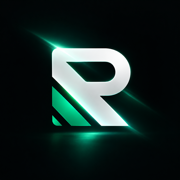
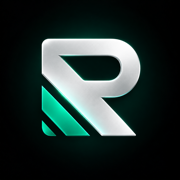
marca nova, etiquetas do multiatendimento e o par do nome na barra
Logo: o Logo-Rezult-atualizado entra em favicon.png (aba, barra superior,
componente Logo, fundo decorativo), favicon.ico, apple-touch-icon e
og-rezult, cada um no tamanho que já tinha. O .ico foi montado à mão, com
três PNGs embutidos (16/32/48): o macOS não escreve esse formato e é o que
todo navegador atual lê. O ?v= subiu de 4 para 5 nos 9 pontos, que é o que o
comentário do Logo.tsx manda fazer ao trocar a arte.

Barra superior: "Rezult" em 18px e "CRM" em 16px. Cresce só o <b>; o bloco
segue no tamanho do "CRM", senão a linha de base das duas palavras se mexe
junto e o conjunto desce em relação ao logo.

Multiatendimento, no card da conversa:

- A etiqueta "1º contato" saiu (dono). Ela dividia a linha com o
  departamento em quase todo card, e a que importa para distribuir
  atendimento ficava em segundo lugar. O estado continua no chip "Não
  lidas" da fila.
- As etiquetas que ficaram passaram a usar o TagPill, que é a etiqueta do
  sistema (10px, raio 50) e a mesma dos cards de /pipeline e /leads. Aqui
  elas eram desenhadas à mão com 12px e raio 6 -- a divergência que aquele
  componente foi criado para encerrar.

Chips da fila (Todos, Não lidas, Aguardando, Finalizadas): o aceso passou a
ser PREENCHIDO, e os quatro na mesma cor. Cada um tinha a sua borda colorida
(cinza, âmbar, azul, verde) e o fundo nunca mudava: quatro cores para dizer
a mesma coisa, variando com o chip em vez de variar com o estado. Sai de
[…]

Changed region(s): [[0.1667, 0.1667, 0.8056, 0.8611], [0.4722, 0.4444, 0.6111, 0.4722]]

diff --git a/src/pages/MultiatendimentoPage.tsx b/src/pages/MultiatendimentoPage.tsx
@@ -62,7 +62,7 @@ import {
   SelectValue,
 } from "@/components/ui/select";
 import { Input } from "@/components/ui/input";
-import { tintaSobre, tintaDeChip } from "@/lib/contraste";
+import { tintaSobre } from "@/lib/contraste";
 import { ACT_META } from "@/lib/atividades";
 
 /* ── helpers ──────────────────────────────────────────────────────────── */
@@ -411,9 +411,26 @@ function Section({ title, children, defaultOpen = false, action, bordaNoTopo = f
  * número, mesmo aceso. Não é fila de trabalho, é arquivo -- e o espaço que ele
  * economiza é justamente o que os outros três usam para escrever o nome.
  */
-function FilterChip({ Icon, count, isActive, onClick, label, color, colorBg, borderColor, iconOnly }: { Icon: LucideIcon; count: number | null; isActive: boolean; onClick: () => void; label?: string; color: string; colorBg: string; borderColor: string; iconOnly?: boolean }) {
+function FilterChip({ Icon, count, isActive, onClick, label, color, colorBg, iconOnly }: { Icon: LucideIcon; count: number | null; isActive: boolean; onClick: () => void; label?: string; color: string; colorBg: string; iconOnly?: boolean }) {
   const [hovered, setHovered] = useState(false);
-  const border = isActive ? `1px solid ${borderColor}` : "1px solid var(--border-default)";
+  /*
+   * O chip aceso é PREENCHIDO, e os quatro acendem da mesma cor (dono,
+   * 08/10/2026).
+   *
+   * Antes cada um tinha a sua borda colorida -- cinza em Todos, âmbar em Não
+   * lidas, azul em Aguardando, verde em Finalizadas -- e o fundo nunca mudava.
+   * Quatro cores para dizer a mesma coisa ("é esta a caixa aberta"), e a cor
+   * variava com o chip em vez de variar com o estado: a única informação que a
+   * fileira precisa passar é QUAL está aceso.
+   *
+   * Sai de `--surface-accent`, que é a superfície de ação do sistema, e por
+   * isso atende o pedido sem nenhum `if` de tema: no claro ela é o charcoal
+   * #1D1D1D, no escuro continua o menta. A tinta vem de `--text-on-accent`,
+   * que acompanha (branco no claro, verde-escuro no escuro).
+   */
+  const fundo = isActive ? "var(--surface-accent)" : "var(--surface-card)";
+  const tinta = isActive ? "var(--text-on-accent)" : "var(--text-heading)";
+  const border = `1px solid ${isActive ? "var(--surface-accent)" : "var(--border-default)"}`;
   const mostrarRotulo = !iconOnly && !!label;
   return (
     /*
@@ -458,7 +475,7 @@ function FilterChip({ Icon, count, isActive, onClick, label, color, colorBg, bor
           display: "flex", alignItems: "center", gap: 4,
           justifyContent: iconOnly ? "flex-start" : "space-between",
           width: iconOnly ? undefined : "100%",
-          background: "var(--surface-card)", border, borderRadius: 6,
+          background: fundo, border, borderRadius: 6,
           padding: iconOnly ? "4px 6px 4px 4px" : "4px 6px",
           fontSize: 11, cursor: "pointer", minWidth: 0,
         }}
@@ -471,11 +488,11 @@ function FilterChip({ Icon, count, isActive, onClick, label, color, colorBg, bor
           </span>
         )}
         {mostrarRotulo && (
-          <span style={{ color: "var(--text-heading)", fontWeight: isActive ? 600 : 500, minWidth: 0, overflow: "hidden", textOverflow: "ellipsis", whiteSpace: "nowrap" }}>
+          <span style={{ color: tinta, fontWeight: isActive ? 600 : 500, minWidth: 0, overflow: "hidden", textOverflow: "ellipsis", whiteSpace: "nowrap" }}>
             {label}
           </span>
         )}
-        {count !== null && <span style={{ color: "var(--text-heading)", fontWeight: 300, flexShrink: 0 }}>{count}</span>}
+        {count !== null && <span style={{ color: tinta, fontWeight: 300, flexShrink: 0 }}>{count}</span>}
       </button>
     </div>
   );
@@ -4158,10 +4175,10 @@ export default function MultiatendimentoPage() {
       : visibleConvList;
 
   const filters = [
-    { id: "",        icon: Inbox,         label: "Todos",       count: convsDoDepartamento.filter(c => !convStates[c.id]?.finished).length,                                                                                                        color: "var(--text-heading)", colorBg: "var(--neutral-50)", borderColor: "var(--border-strong)" },
-    { id: "unread",  icon: Clock,         label: "Não lidas",   count: convsDoDepartamento.filter(c => !convStates[c.id]?.read && !convStates[c.id]?.finished && isConvInstanceConnected(c)).length,       color: "var(--warning-fg)", colorBg: "var(--warning-bg)", borderColor: "rgba(246, 176, 54, 0.52)" },
-    { id: "pending", icon: MessageCircle, label: "Aguardando",  count: convsDoDepartamento.filter(c => !!convStates[c.id]?.read && !convStates[c.id]?.finished && isConvInstanceConnected(c)).length,      color: "var(--info-fg)", colorBg: "var(--info-bg)", borderColor: "rgba(65, 121, 219, 0.52)" },
-    { id: "done",    icon: CheckCircle2,  label: "Finalizadas", count: convsDoDepartamento.filter(c => convStates[c.id]?.finished).length,                                                                 color: "var(--accent-700)", colorBg: "var(--accent-50)", borderColor: "rgba(34, 197, 94, 0.6)" },
+    { id: "",        icon: Inbox,         label: "Todos",       count: convsDoDepartamento.filter(c => !convStates[c.id]?.finished).length,                                                                                                        color: "var(--text-heading)", colorBg: "var(--neutral-50)" },
+    { id: "unread",  icon: Clock,         label: "Não lidas",   count: convsDoDepartamento.filter(c => !convStates[c.id]?.read && !convStates[c.id]?.finished && isConvInstanceConnected(c)).length,       color: "var(--warning-fg)", colorBg: "var(--warning-bg)" },
+    { id: "pending", icon: MessageCircle, label: "Aguardando",  count: convsDoDepartamento.filter(c => !!convStates[c.id]?.read && !convStates[c.id]?.finished && isConvInstanceConnected(c)).length,      color: "var(--info-fg)", colorBg: "var(--info-bg)" },
+    { id: "done",    icon: CheckCircle2,  label: "Finalizadas", count: convsDoDepartamento.filter(c => convStates[c.id]?.finished).length,                                                                 color: "var(--accent-700)", colorBg: "var(--accent-50)" },
   ];
   const activeFilterMeta = filters.find(f => f.id === activeFilter);
   /*
@@ -4366,7 +4383,7 @@ export default function MultiatendimentoPage() {
                * dizia por quê. Com "Todos" visível, sair do filtro é clicar
                * nele, que é o que qualquer pessoa tenta primeiro.
                */
-              <FilterChip key={f.id || "todos"} Icon={f.icon} count={f.count} label={f.label} color={f.color} colorBg={f.colorBg} borderColor={f.borderColor} iconOnly={f.id === "done"} isActive={activeFilter === f.id} onClick={() => setActiveFilter(f.id)} />
+              <FilterChip key={f.id || "todos"} Icon={f.icon} count={f.count} label={f.label} color={f.color} colorBg={f.colorBg} iconOnly={f.id === "done"} isActive={activeFilter === f.id} onClick={() => setActiveFilter(f.id)} />
             ))}
           </div>
         </div>
@@ -4478,49 +4495,31 @@ export default function MultiatendimentoPage() {
                       direita já mostra a lista inteira -- e lá elas são
                       clicáveis, o que aqui nunca foram.
 
-                      Sobram nesta linha os estados da CONVERSA, que não
-                      existem em lugar nenhum além dela: se ninguém da casa
-                      respondeu ainda, se o atendimento foi encerrado e se a
-                      linha que a recebeu está fora do ar. */}
+                      O DEPARTAMENTO é a etiqueta desta linha. Antes dividia o
+                      espaço com "1º contato", que marcava conversa que ninguém
+                      da casa tinha respondido: duas etiquetas em quase todo
+                      card, e a que importa para distribuir atendimento ficava
+                      em segundo lugar. Saiu a pedido do dono em 08/10/2026. O
+                      estado continua no produto, no chip "Não lidas" da fila.
+
+                      Encerrada e desconectada ficam, porque não são etiqueta de
+                      rotina: aparecem só quando o caso acontece.
+
+                      As quatro passaram a usar o `TagPill`, que é a etiqueta do
+                      sistema (10px, raio 50) e a mesma dos cards de /pipeline e
+                      /leads. Aqui elas eram desenhadas à mão com 12px e raio 6,
+                      que é exatamente a divergência que aquele componente foi
+                      criado para encerrar. */}
                   <div style={{ display: "flex", gap: 4, flexWrap: "wrap" }}>
-                    {/*
-                      "1º contato": ninguém da empresa respondeu esta conversa
-                      NENHUMA vez (`answered`).
-
-                      Era o chip "Não iniciadas", que saiu quando os filtros
-                      passaram a perguntar só se há mensagem esperando. Virou
-                      etiqueta porque é uma característica da conversa, não uma
-                      caixa -- e assim aparece em qualquer filtro, inclusive
-                      depois de alguém abrir a conversa sem responder, que é
-                      justamente quando ela sairia do radar.
-
-                      Não aparece em conversa encerrada: lá o primeiro contato
-                      já virou história, e a etiqueta de Finalizada é a que
-                      importa. */}
-                    {!cState?.answered && !cState?.finished && (
-                      <span style={{ fontSize: 12, fontWeight: 600, background: "#FFF7ED", color: "#C2410C", padding: "2px 6px", borderRadius: 6 }}>1º contato</span>
-                    )}
-                    {/*
-                      O departamento da conversa, com a cor escolhida no
-                      cadastro. Só com DOIS ou mais departamentos: com um só,
-                      todas as conversas teriam a mesma etiqueta, que é ruído.
-
-                      A cor entra como fundo esmaecido e a tinta vem de
-                      `tintaDeChip`, que decide entre escuro e claro pelo
-                      contraste -- as cores de departamento vão de amarelo a
-                      azul-marinho, e um branco fixo sumiria em metade delas. */}
+                    {/* Só com DOIS ou mais departamentos: com um só, todas as
+                        conversas teriam a mesma etiqueta, que é ruído. */}
                     {muDepts.length > 1 && cState?.departmentId && (() => {
                       const d = muDepts.find(x => x.id === cState.departmentId);
                       if (!d) return null;
-                      const cor = d.color ?? "var(--neutral-300)";
-                      return (
-                        <span style={{ fontSize: 12, fontWeight: 600, background: d.color ? `${d.color}22` : "var(--neutral-50)", color: d.color ? tintaDeChip(cor) : "var(--text-muted)", padding: "2px 6px", borderRadius: 6 }}>
-                          {d.name}
-                        </span>
-                      );
+                      return <TagPill cor={d.color}>{d.name}</TagPill>;
                     })()}
-                    {cState?.finished && <span style={{ fontSize: 12, fontWeight: 600, background: "var(--accent-50)", color: "var(--accent-800)", padding: "2px 6px", borderRadius: 6 }}>✓ Finalizada</span>}
-                    {!isConvInstanceConnected(c) && <span style={{ fontSize: 12, fontWeight: 600, background: "var(--neutral-50)", color: "var(--text-muted)", padding: "2px 6px", borderRadius: 6 }}>Desconectada</span>}
+                    {cState?.finished && <TagPill>✓ Finalizada</TagPill>}
+                    {!isConvInstanceConnected(c) && <TagPill>Desconectada</TagPill>}
                   </div>
                 </div>
               </div>

diff --git a/src/components/BarraSuperior.tsx b/src/components/BarraSuperior.tsx
@@ -230,7 +230,7 @@ export function BarraSuperior({ aoAbrirMenu, compacta = false }: { aoAbrirMenu?:
           {/* O MESMO arquivo do favicon, servido de public/: são a mesma marca,
               e duas cópias significam trocar a arte em dois lugares. */}
           <img
-            src="/favicon.png?v=4"
+            src="/favicon.png?v=5"
             alt="Rezult"
             className="shrink-0 block object-cover"
             style={{ width: 30, height: 30, borderRadius: 8 }}
@@ -240,8 +240,16 @@ export function BarraSuperior({ aoAbrirMenu, compacta = false }: { aoAbrirMenu?:
               e-mail do usuário na outra ponta -- que fazia a faixa transbordar
               numa tela de 390px. */}
           {!compacta && (
-              <span className="text-[15px] tracking-tight whitespace-nowrap truncate min-w-0 text-[color:var(--text-heading)]">
-              <span className="font-semibold">Rezult</span> <span className="font-normal">CRM</span>
+              /* "Rezult" em 18px e "CRM" em 16px (dono, 08/10/2026). O site
+                 usa 20/18 na navbar dele; aqui a faixa divide espaço com o
+                 botão Suporte, as ferramentas e o nome do usuário, e o par
+                 menor é o que cabe sem apertar os vizinhos.
+
+                 O tamanho do bloco é o do "CRM": as duas palavras dividem o
+                 `line-height` herdado daqui, então subir o pai moveria a linha
+                 de base das duas juntas. */
+              <span className="text-[16px] tracking-tight whitespace-nowrap truncate min-w-0 text-[color:var(--text-heading)]">
+              <span className="font-semibold text-[18px]">Rezult</span> <span className="font-normal">CRM</span>
             </span>
           )}
         </span>

diff --git a/index.html b/index.html
@@ -34,13 +34,13 @@
          guarda com mais teimosia: sem trocar a URL, quem já visitou continua
          vendo o ícone antigo por tempo indeterminado. Subiu para 4 em
          19/09/2026, com a marca oficial nova. -->
-    <link rel="icon" type="image/png" href="/favicon.png?v=4" />
+    <link rel="icon" type="image/png" href="/favicon.png?v=5" />
     <!-- O .ico não é declarado por acaso: o navegador pede /favicon.ico sozinho
          quando a aba abre, e sem esta linha ele usaria o arquivo velho em cache
          em vez do que o <link> acima aponta. Traz 16, 32 e 48px. -->
-    <link rel="icon" type="image/x-icon" href="/favicon.ico?v=4" sizes="16x16 32x32 48x48" />
+    <link rel="icon" type="image/x-icon" href="/favicon.ico?v=5" sizes="16x16 32x32 48x48" />
     <!-- iOS, quando a pessoa põe o app na tela de início. -->
-    <link rel="apple-touch-icon" href="/apple-touch-icon.png?v=4" />
+    <link rel="apple-touch-icon" href="/apple-touch-icon.png?v=5" />
 
     <!-- Meta Pixel -->
     <script>
@@ -57,10 +57,10 @@
 <meta property="og:title" content="Rezult CRM" />
     <meta property="og:description" content="CRM simples para quem vende pelo WhatsApp" />
     <meta property="og:type" content="website" />
-    <meta property="og:image" content="https://app.rezultcrm.com/og-rezult.png?v=4" />
+    <meta property="og:image" content="https://app.rezultcrm.com/og-rezult.png?v=5" />
 
     <meta name="twitter:card" content="summary_large_image" />
-    <meta name="twitter:image" content="https://app.rezultcrm.com/og-rezult.png?v=4" />
+    <meta name="twitter:image" content="https://app.rezultcrm.com/og-rezult.png?v=5" />
   </head>
 
   <body>

diff --git a/src/components/FundoDoCrm.tsx b/src/components/FundoDoCrm.tsx
@@ -269,7 +269,7 @@ function BoardDesenhado() {
           style={{ width: 52, background: "hsl(var(--primary))", paddingTop: 12, paddingBottom: 12 }}
         >
           <img
-            src="/favicon.png?v=4"
+            src="/favicon.png?v=5"
             alt=""
             style={{ width: 35, height: 35, borderRadius: 8, marginBottom: 8, objectFit: "cover" }}
           />

diff --git a/src/components/Logo.tsx b/src/components/Logo.tsx
@@ -18,7 +18,7 @@ export function Logo({ size = "md", showIcon = false }: { size?: "sm" | "md" | "
     <div className="inline-flex items-center" style={{ gap: "11px" }}>
       {showIcon && (
         <img
-          src="/favicon.png?v=4"
+          src="/favicon.png?v=5"
           alt=""
           aria-hidden="true"
           className="flex-shrink-0 block object-cover"

diff --git a/src/components/MarcaRezult.tsx b/src/components/MarcaRezult.tsx
@@ -18,7 +18,7 @@ export function MarcaRezult({ className }: { className?: string }) {
   return (
     <span className={`inline-flex items-center gap-2.5 ${className ?? ""}`}>
       <img
-        src="/favicon.png?v=4"
+        src="/favicon.png?v=5"
         alt=""
         aria-hidden="true"
         className="shrink-0 block object-cover"
